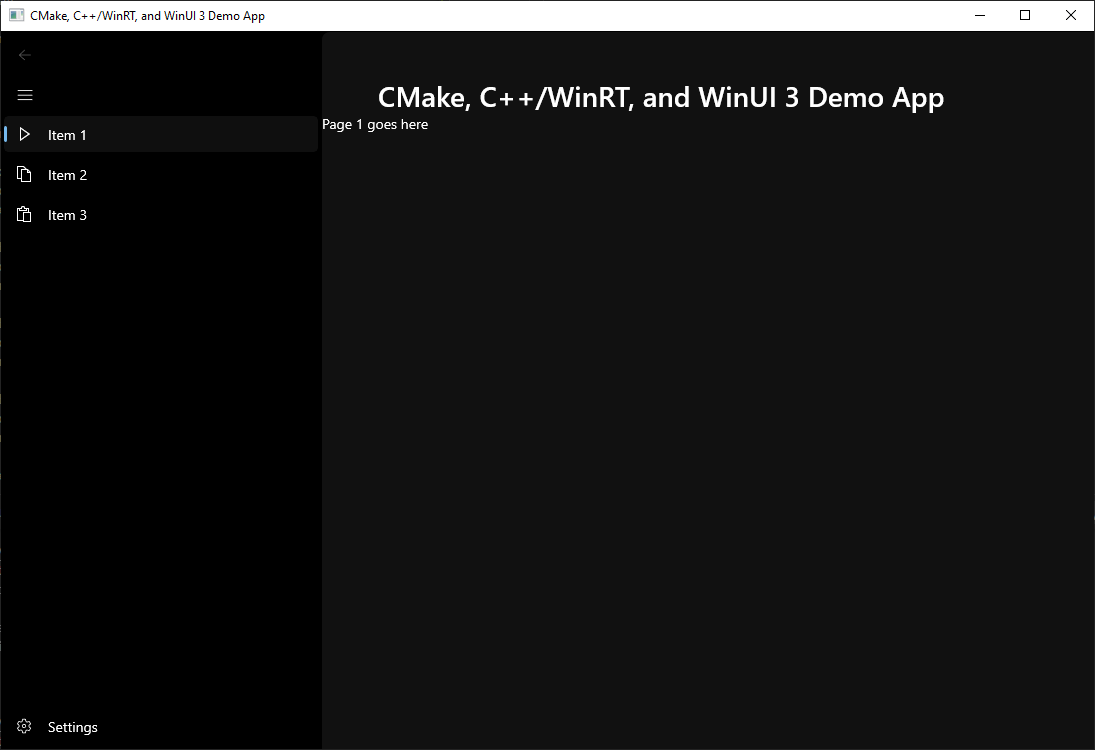
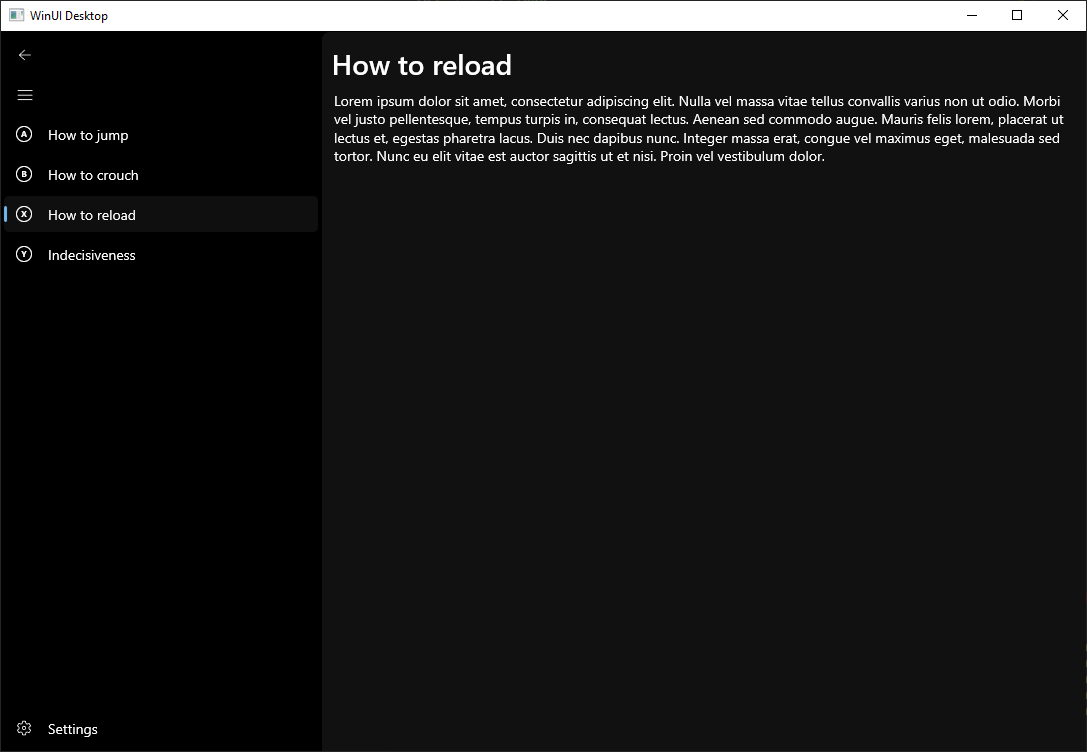
Add xaml pages

diff --git a/src/MainWindow.xaml b/src/MainWindow.xaml
@@ -7,5 +7,25 @@
   xmlns:mc="http://schemas.openxmlformats.org/markup-compatibility/2006"
   mc:Ignorable="d"
   >
-  <TextBlock>Hello, world</TextBlock>
+  <NavigationView
+    x:Name="Navigation"
+    IsBackEnabled="{x:Bind Frame.CanGoBack, Mode=OneWay}"
+    BackRequested="GoBack"
+    ItemInvoked="Navigate">
+    <NavigationView.MenuItems>
+      <NavigationViewItem Content="How to jump">
+        <NavigationViewItem.Icon><FontIcon Glyph="&#xF093;" /></NavigationViewItem.Icon>
+      </NavigationViewItem>
+      <NavigationViewItem Content="How to crouch">
+        <NavigationViewItem.Icon><FontIcon Glyph="&#xF094;" /></NavigationViewItem.Icon>
+      </NavigationViewItem>
+      <NavigationViewItem Content="How to reload">
+        <NavigationViewItem.Icon><FontIcon Glyph="&#xF096;" /></NavigationViewItem.Icon>
+      </NavigationViewItem>
+      <NavigationViewItem Content="Indecisiveness">
+        <NavigationViewItem.Icon><FontIcon Glyph="&#xF095;" /></NavigationViewItem.Icon>
+      </NavigationViewItem>
+    </NavigationView.MenuItems>
+    <Frame x:Name="Frame" />
+  </NavigationView>
 </Window>

diff --git a/src/DemoPage.xaml b/src/DemoPage.xaml
@@ -1,0 +1,14 @@
+<Page
+  x:Class="DemoApp.DemoPage"
+  xmlns="http://schemas.microsoft.com/winfx/2006/xaml/presentation"
+  xmlns:x="http://schemas.microsoft.com/winfx/2006/xaml"
+  xmlns:d="http://schemas.microsoft.com/expression/blend/2008"
+  xmlns:mc="http://schemas.openxmlformats.org/markup-compatibility/2006"
+  mc:Ignorable="d">
+  <StackPanel Orientation="Vertical" Margin="12">
+    <TextBlock x:Name="Title" Style="{StaticResource TitleTextBlockStyle}" />
+    <TextBlock Margin="0,8,0,0" Style="{StaticResource BodyTextBlockStyle}">
+      Lorem ipsum dolor sit amet, consectetur adipiscing elit. Nulla vel massa vitae tellus convallis varius non ut odio. Morbi vel justo pellentesque, tempus turpis in, consequat lectus. Aenean sed commodo augue. Mauris felis lorem, placerat ut lectus et, egestas pharetra lacus. Duis nec dapibus nunc. Integer massa erat, congue vel maximus eget, malesuada sed tortor. Nunc eu elit vitae est auctor sagittis ut et nisi. Proin vel vestibulum dolor.
+    </TextBlock>
+  </StackPanel>
+</Page>

diff --git a/src/MainWindow.xaml.cpp b/src/MainWindow.xaml.cpp
@@ -9,4 +9,31 @@ MainWindow::MainWindow() {
   InitializeComponent();
 }
 
+void MainWindow::Navigate(
+  const IInspectable& sender,
+  const Microsoft::UI::Xaml::Controls::NavigationViewItemInvokedEventArgs& args) noexcept {
+  if (args.IsSettingsInvoked()) {
+    // TODO
+    return;
+  }
+
+  auto item = args.InvokedItemContainer().try_as<
+    Microsoft::UI::Xaml::Controls::NavigationViewItem
+  >();
+
+  if (!item) {
+    // FIXME: show an error?
+    return;
+  }
+
+  // TODO: you probably want to use item.Tag() to identify a specific item
+  Frame().Navigate(xaml_typename<DemoPage>(), item.Content());
+}
+
+void MainWindow::GoBack(
+  const IInspectable& sender,
+  const Microsoft::UI::Xaml::Controls::NavigationViewBackRequestedEventArgs&) noexcept {
+  Frame().GoBack();
+}
+
 }

diff --git a/src/DemoPage.xaml.cpp b/src/DemoPage.xaml.cpp
@@ -1,0 +1,20 @@
+#include "DemoPage.xaml.h"
+#if __has_include("DemoPage.g.cpp")
+#include "DemoPage.g.cpp"
+#endif
+
+#include <winrt/Microsoft.UI.Xaml.Navigation.h>
+
+namespace winrt::DemoApp::implementation {
+
+DemoPage::DemoPage() {
+  InitializeComponent();
+}
+
+void DemoPage::OnNavigatedTo(
+  const Microsoft::UI::Xaml::Navigation::NavigationEventArgs& args
+) noexcept {
+  Title().Text(winrt::unbox_value<winrt::hstring>(args.Parameter()));
+}
+
+}

diff --git a/src/MainWindow.xaml.h b/src/MainWindow.xaml.h
@@ -6,6 +6,14 @@
 namespace winrt::DemoApp::implementation {
 struct MainWindow : MainWindowT<MainWindow> {
   MainWindow();
+
+  void Navigate(
+    const IInspectable& sender,
+    const Microsoft::UI::Xaml::Controls::NavigationViewItemInvokedEventArgs&) noexcept;
+
+  void GoBack(
+    const IInspectable& sender,
+    const Microsoft::UI::Xaml::Controls::NavigationViewBackRequestedEventArgs&) noexcept;
 };
 }
 

diff --git a/src/DemoPage.xaml.h b/src/DemoPage.xaml.h
@@ -1,0 +1,17 @@
+#pragma once
+
+#include "pch.h"
+#include "DemoPage.g.h"
+
+namespace winrt::DemoApp::implementation {
+struct DemoPage : DemoPageT<DemoPage> {
+  DemoPage();
+
+  void OnNavigatedTo(const Microsoft::UI::Xaml::Navigation::NavigationEventArgs&) noexcept;
+};
+}
+
+namespace winrt::DemoApp::factory_implementation {
+struct DemoPage : DemoPageT<DemoPage, implementation::DemoPage> {};
+}
+
